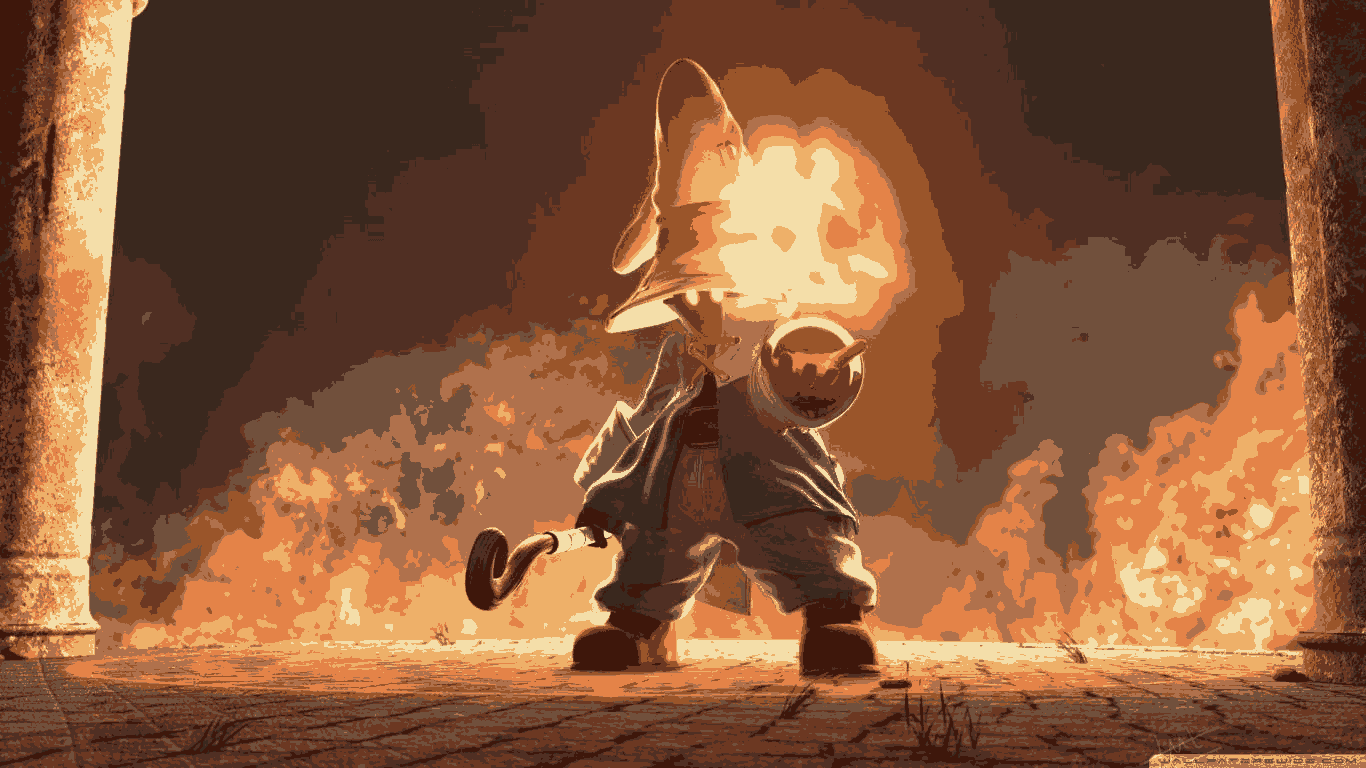
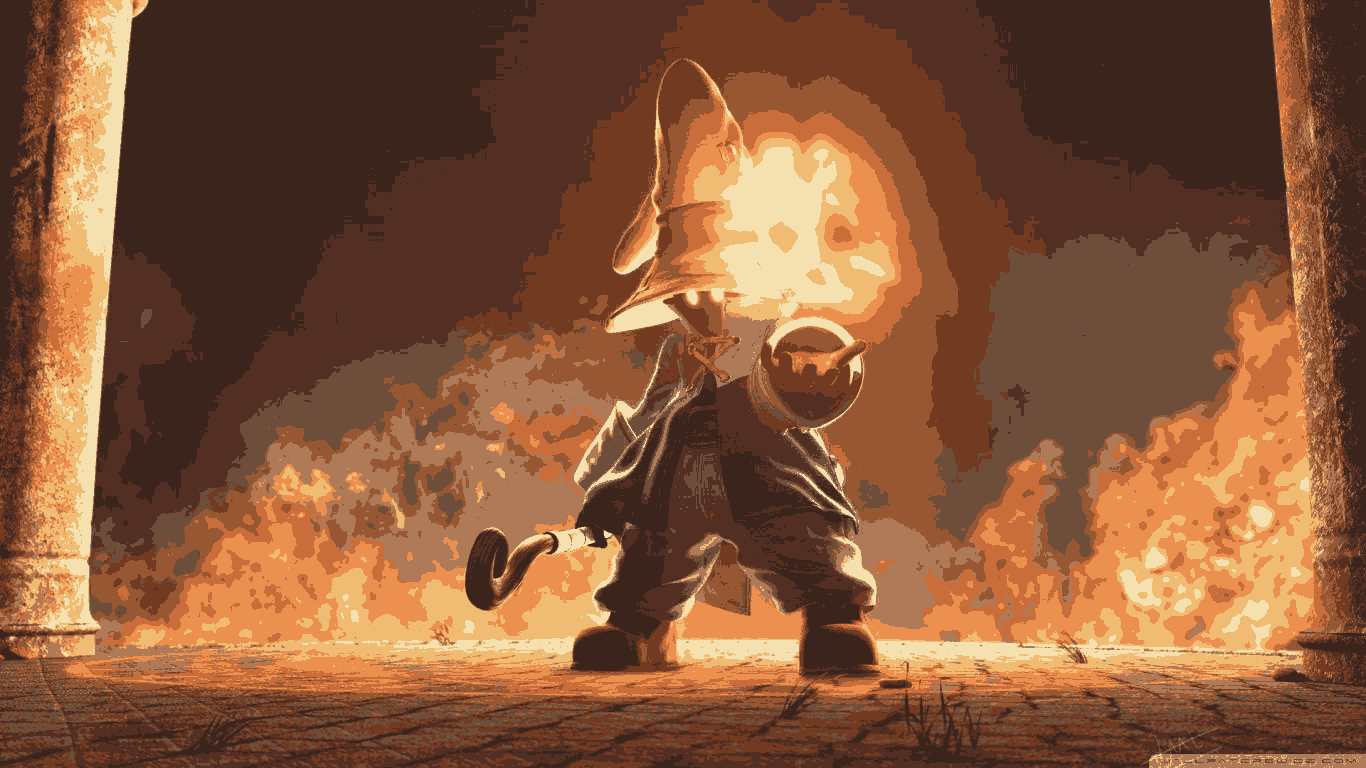
finished k-means for a good first pass learned more about the k-means algorithm and how to cheat it with a hashmap than learning more code i guess. i did learn about the zip function and into_iter which are how to zip(python) and consume a hashmap to vec or any other iterable datastructure respectiv

diff --git a/src/kmeans.rs b/src/kmeans.rs
@@ -1,3 +1,4 @@
+use std::collections::HashMap;
 use std::vec;
 
 use crate::Rgb;
@@ -10,7 +11,8 @@ const DELTA_DIFF: f32 = 1.0;
 pub fn preprocess(pixels: &mut [Rgb]) {
     // so this mutates in place as far as i understand
     // just like odin here
-    for pixel in pixels { // & !0b11 is same as bitchop code
+    for pixel in pixels {
+        // & !0b11 is same as bitchop code
         pixel.r = pixel.r >> BITS_CHOP << BITS_CHOP;
         pixel.g = pixel.g >> BITS_CHOP << BITS_CHOP;
         pixel.b = pixel.b >> BITS_CHOP << BITS_CHOP;
@@ -18,77 +20,97 @@ pub fn preprocess(pixels: &mut [Rgb]) {
 }
 
 fn get_distance(a: &Rgb, b: &Rgb) -> f32 {
-    let (r, g, b) = ( // learn tuple destructure with structs
-            a.r as i32 - b.r as i32,
-            a.g as i32 - b.g as i32,
-            a.b as i32 - b.b as i32,
-        );
+    let (r, g, b) = (
+        // learn tuple destructure with structs
+        a.r as i32 - b.r as i32,
+        a.g as i32 - b.g as i32,
+        a.b as i32 - b.b as i32,
+    );
     ((r * r + g * g + b * b) as f32).sqrt()
 }
 
-fn step_kmeans(pixels: &[Rgb], centroids: &mut [Rgb], assignments: &mut [usize]) -> f32{
-    for (pixel_idx, pixel) in pixels.iter().enumerate() {
-        let mut min_dist_centroid_idx: usize = 0;
-        let mut min_distance: f32 = f32::MAX;
-        let mut centroid_idx: usize = 0;
-        for centroid in &mut *centroids {
-            let distance = get_distance(pixel, centroid);
+fn count_colors(pixels: &[Rgb]) -> Vec<(Rgb, u32)> {
+    let mut c: HashMap<Rgb, u32> = HashMap::new();
+
+    for pixel in pixels {
+        *c.entry(*pixel).or_insert(0) += 1;
+    }
+
+    let mut c = c.into_iter().collect::<Vec<(Rgb, u32)>>();
+    c.sort_by_key(|entry| (entry.0.r, entry.0.g, entry.0.b));
+    c
+}
+
+fn step_kmeans(
+    pixel_counts: &[(Rgb, u32)],
+    centroids: &mut [Rgb],
+    assignments: &mut [usize],
+) -> f32 {
+    for (pixel_idx, &(color, _)) in pixel_counts.iter().enumerate() {
+        let mut min_dist_centroid_idx = 0;
+        let mut min_distance = f32::MAX;
+        for (centroid_idx, centroid) in (*centroids).iter().enumerate() {
+            let distance = get_distance(&color, centroid);
             if distance < min_distance {
-                min_dist_centroid_idx = centroid_idx; 
+                min_dist_centroid_idx = centroid_idx;
                 min_distance = distance;
             }
-            centroid_idx += 1;
         }
         assignments[pixel_idx] = min_dist_centroid_idx;
     }
-    let mut total_distance: f32 = 0.0;
-    let mut sums: Vec<[i32; 3]> = vec![[0; 3]; centroids.len()];
+
+    let mut centroid_sums: Vec<[i32; 3]> = vec![[0; 3]; centroids.len()]; // @todo add typing to this
     let mut counts: Vec<i32> = vec![0; centroids.len()];
-
     for (pixel_idx, centroid_idx) in assignments.iter().enumerate() {
-        let pixel = pixels[pixel_idx];
-
-        sums[*centroid_idx][0] += pixel.r as i32;
-        sums[*centroid_idx][1] += pixel.g as i32;
-        sums[*centroid_idx][2] += pixel.b as i32;
-        counts[*centroid_idx] += 1;
+        let (pixel, pixel_count) = pixel_counts[pixel_idx];
+        // so here these are pixel counts and we want to give weight to represent
+        centroid_sums[*centroid_idx][0] += pixel.r as i32 * pixel_count as i32;
+        centroid_sums[*centroid_idx][1] += pixel.g as i32 * pixel_count as i32;
+        centroid_sums[*centroid_idx][2] += pixel.b as i32 * pixel_count as i32;
+        counts[*centroid_idx] += pixel_count as i32;
     }
 
+    let mut total_distance: f32 = 0.0;
     for (idx, centroid) in (*centroids).iter_mut().enumerate() {
         if counts[idx] == 0 {
             continue;
         }
-        let r = (sums[idx][0] / counts[idx] ) as u8;
-        let g = (sums[idx][1] / counts[idx]) as u8;
-        let b = (sums[idx][2] / counts[idx]) as u8;
+        let num_pixels = counts[idx];
+        let r = (centroid_sums[idx][0] / num_pixels) as u8;
+        let g = (centroid_sums[idx][1] / num_pixels) as u8;
+        let b = (centroid_sums[idx][2] / num_pixels) as u8;
 
-        let new_centroid = Rgb{r, g, b};
+        let new_centroid = Rgb { r, g, b };
         total_distance += get_distance(centroid, &new_centroid);
         *centroid = new_centroid;
     }
-    
-    
+
     total_distance
 }
 
-pub fn run_kmeans(pixels: &mut [Rgb], k: i32) {
-    let rng = &mut rand::rng();
-    let samples = index::sample(rng, pixels.len(), k as usize);
+pub fn run_kmeans(pixels: &mut [Rgb], k: usize) {
+    let pixel_counts = count_colors(pixels);
+    let rng = &mut rand::rng(); // change rng to be seeded if needed
+    let samples = index::sample(rng, pixel_counts.len(), k.min(pixel_counts.len()));
 
-    let mut centroids: Vec<Rgb> = vec![];
+    let mut centroids: Vec<Rgb> = vec![]; // can prob turn this into a map
     for idx in samples {
-        centroids.push(pixels[idx].clone());
+        centroids.push(pixel_counts[idx].0);
     }
 
-    let mut assignments = vec![0; pixels.len()];
+    let mut assignments = vec![0; pixel_counts.len()];
 
-    let mut diff = step_kmeans(pixels, &mut centroids, &mut assignments);
+    let mut diff = step_kmeans(&pixel_counts, &mut centroids, &mut assignments);
     while diff > DELTA_DIFF {
-        diff = step_kmeans(pixels, &mut centroids, &mut assignments);
+        diff = step_kmeans(&pixel_counts, &mut centroids, &mut assignments);
     }
 
-    for (idx, pixel) in (*pixels).iter_mut().enumerate() {
-        *pixel = centroids[assignments[idx]];
+    let mut lookup: HashMap<Rgb, usize> = HashMap::new();
+    for (&(color, _), &assignment) in pixel_counts.iter().zip(assignments.iter()) {
+        lookup.insert(color, assignment);
+    }
+    for pixel in (*pixels).iter_mut() {
+        *pixel = centroids[*lookup.get(pixel).unwrap()];
     }
 
     println!("finished assigning!");

diff --git a/src/main.rs b/src/main.rs
@@ -4,16 +4,21 @@ use image::{ImageBuffer, ImageReader};
 
 use crate::kmeans::{preprocess, run_kmeans};
 
-#[derive(Clone, Copy, Debug, PartialEq)]
+#[derive(Clone, Copy, Debug, PartialEq, Hash, Eq)]
 pub struct Rgb {
     r: u8,
     g: u8,
-    b: u8
+    b: u8,
 }
 
 fn main() {
-    let image_path = std::env::args().nth(1).expect("usage: paint-by-numbers <image>");
-    let raw_img = ImageReader::open(image_path).expect("error reading image").decode().expect("error decoding image");
+    let image_path = std::env::args()
+        .nth(1)
+        .expect("usage: paint-by-numbers <image>");
+    let raw_img = ImageReader::open(image_path)
+        .expect("error reading image")
+        .decode()
+        .expect("error decoding image");
     let width = raw_img.width() as usize;
     let height = raw_img.height() as usize;
     println!("image read dimensions: {width}x{height}");
@@ -21,11 +26,10 @@ fn main() {
     let raw_img = raw_img.into_rgb8(); //consume as we dont need it anymore
 
     let mut pixels: Vec<Rgb> = Vec::with_capacity(width * height);
-    for rgb in raw_img.pixels() { // @TODO can prob make this a map function
+    for rgb in raw_img.pixels() {
+        // @TODO can prob make this a map function
         let [r, g, b] = rgb.0;
-        let v = Rgb{
-            r, g, b
-        };
+        let v = Rgb { r, g, b };
         pixels.push(v);
     }
 
@@ -33,7 +37,7 @@ fn main() {
 
     preprocess(&mut pixels);
     run_kmeans(&mut pixels, k);
-    
+
     let output = ImageBuffer::from_fn(width as u32, height as u32, |x, y| {
         let idx = y as usize * width + x as usize;
         image::Rgb([pixels[idx].r, pixels[idx].g, pixels[idx].b])

diff --git a/LESSON_PLAN.md b/LESSON_PLAN.md
@@ -55,6 +55,8 @@ Read this whole file at the start of every session. It is the source of truth fo
 - Background: Go, Python, Odin. Learning Rust to work without AI.
 - Prefers working code first and idiomatic refactors later.
 - Wants to stay close to the TS reference and their own Odin port.
+- Finds Rust cumbersome and tends to polish small errors before the program works. Remind gently: lazy first, refactor after it runs.
+- Learns well from reading panics and re-reading against the Odin code. Prefers leading questions to being handed the fix, but a precise pointer (line + "compare with line N") works.
 
 ## Independence habits
 
@@ -94,7 +96,7 @@ Notes on `archive/fill.odin` to keep in mind when porting:
   - Done when `cargo run -- images/testinput.png` writes `out.png`.
   - Concepts: cargo/crates, `Result` and `?`, `Vec`, `as` casts, Drop vs `defer`.
   - Reading: Book ch. 1–3, 9.
-- [ ] **M1: k-means.** `Rgb` struct, bit chop, distance, step/run, seeded RNG (port `src/random.ts`).
+- [ ] **M1: k-means.** (🟡 ~70%, 2026-11-16: `Rgb`, bit chop, distance, step, run all written in `src/kmeans.rs` and `out.png` is produced. Remaining: seeded RNG, unique colors weighted by count.) `Rgb` struct, bit chop, distance, step/run, seeded RNG (port `src/random.ts`).
   - Done when the quantized PNG matches the Odin output. Then switch to unique colors weighted by count, as TS does.
   - Concepts: `&[T]` vs `&mut [T]`, ownership, `#[derive(Clone, Copy, PartialEq, Eq, Hash, Debug)]`, `mod` files, `HashMap`, `--release`.
   - Reading: Book ch. 4, 5, 7, 8.
@@ -157,12 +159,46 @@ Deferred (later, not now):
 - The `@TODO` map: `.pixels().map(...).collect()` (Book ch. 13).
 - `Grid<T>` with `width: usize` and casts only at the edges (M2/M3).
 - Real error handling instead of `expect` (M9).
+- Still open from M0 (checked 2026-11-16): `output/` not in `.gitignore`; `main.rs:24` pixel loop still a `for` + `push` (`.map().collect()`).
+- Clippy items in `kmeans.rs`: `.enumerate()` instead of `centroid_idx` counter, drop `.clone()` on `Copy`, unused `use std::vec`.
+- `>> N << N` vs `& !0b11` (cosmetic; kept to mirror TS/Odin).
+- `as` casts: recheck float→int saturation and int→int truncation when k-means centroid math is next touched (`kmeans.rs:61-63` uses `i32 / i32 as u8`, which is fine for 0–255 averages).
 
-### Next up: M1 (k-means)
+### M1 so far (2026-11-16)
 
-Probe topics: `mod` files, `HashMap` for counting unique colors, `&[Rgb]` and `&mut [Rgb]` in one function,
-`f32`/`f64` and casts, seeding your own RNG (port `src/random.ts`), `--release`.
-First build step: `fn preprocess(pixels: &mut [Rgb])` (bit-chop, port of Odin `preprocess_image`).
+`src/kmeans.rs` (94 lines): `preprocess` (bit chop), `get_distance`, `step_kmeans`, `run_kmeans`. Wired from `main.rs` with `k = 10`.
+Runs and writes `output/out.png`. `cargo build` is clean. Clippy: 2 warnings (manual loop counter `centroid_idx` at line 33, `.clone()` on `Copy` `Rgb` at line 80), plus an unused `use std::vec`.
+
+Learned / fixed with coaching:
+- **`vec![0, n]` vs `vec![0; n]`:** list literal vs repeat. Caused the index-out-of-bounds panic (len 2) in `assignments`.
+- **Forgotten update:** `min_distance` was never assigned, so every pixel picked the last centroid. Found by re-reading against Odin.
+- **Stop condition:** `DELTA_DIFF = 0.0` never settles with truncated integer centroids; `1.0` fixed the apparent infinite loop.
+- **`cargo run --release -- <args>`** vs `cargo build --release` then `./target/release/paint-by-numbers <args>`.
+- Module basics: `mod kmeans;` once in `main.rs`, `pub fn`, `use crate::Rgb;` (private fields are visible to child modules).
+- Iterators: `for pixel in pixels` over `&mut [T]`, `.iter().enumerate()`, `iter_mut()`.
+
+Learner reflection (their own words, worth keeping): write the program the laziest way first, then go back and iron out
+the kinks. A working program is useful; don't polish before it runs.
+
+Still open in M1:
+- **Seeded RNG (decided 2026-11-16: no `random.ts` port, the `rand` crate is fine):** currently `rand::rng()` (non-deterministic). Only change: seed it so runs are repeatable (`SeedableRng::seed_from_u64`, verified in `rand_core-0.10.1/src/seedable_rng.rs:109`; `StdRng` in `rand::rngs`).
+- **Unique colors weighted by count** (`HashMap<Rgb, u32>`). Needs `Hash` + `Eq` derives on `Rgb`. Replaces the per-pixel loop and is much faster.
+- **Quality check:** compare `out.png` to the Odin output once seeded.
+
+Design note for M2: `run_kmeans` currently overwrites `pixels` with centroid colors and throws away `centroids` and `assignments`.
+That is the same flaw as the Odin port (palette indices lost). M2 fixes it by returning them.
+
+TS reference verified 2026-11-16 (`~/workspace/paintbynumbersgenerator`, now cloned):
+- Weighted unique colors: `src/colorreductionmanagement.ts:95-115` (weight = pixels of color / total pixels), weighted mean in `src/lib/clustering.ts:21-46`. Integer counts give the same result (the total cancels).
+- `kMeansMinDeltaDifference = 1` (`src/settings.ts:11`), matching the Rust `DELTA_DIFF = 1.0`.
+- Seed: `randomSeed === 0 ? time : seed`. Initial centroids are random picks from the unique-color list (can repeat; Rust's `index::sample` avoids repeats).
+- TS keeps centroids as floats; Rust truncates to `u8` each step. Possible small palette difference, fine for now.
+
+### Next up
+
+1. Finish M1: weighted unique colors first (speed win, teaches `HashMap`), then the seeded RNG.
+2. Then M2: return `(centroids, assignments)` from `run_kmeans` and build `Grid<u8>`.
+Probe still to run: `HashMap` entry API, seeded RNG (`SeedableRng`, or a hand-rolled LCG as in `random.ts`), integer vs float casts recheck.
 
 ## Rust shifts from Go/Python/Odin
 
@@ -181,4 +217,6 @@ First build step: `fn preprocess(pixels: &mut [Rgb])` (bit-chop, port of Odin `p
 | 2026-11-10 | M0 probe | Moves (Q1), Drop at scope end (Q2), `?` (Q3), debug overflow panic (Q4), borrow conflict on push (Q5), Copy rules (Q6), release-mode wrapping (Q8) | Vec memory layout and move cost (Q9), `&mut Vec` → `&mut [T]` coercion (Q10), Vec vs slice capabilities (Q11), prefers Vec in/out over `&mut [T]` (Q7) |
 | 2026-11-10 | Lesson 1: Vec memory | Taught Vec = (ptr, len, cap) header + heap buffer, slices as views, deref coercion. Both checks correct (signature choice, clone vs move cost) | (closed) |
 | 2026-11-12 | M1 probe | `HashMap` key needs `Hash`+`Eq` (Q1), `mod x;` once in main + `pub` (Q2), `&mut [T]` can't change length (Q3), no implicit int conversion (check) | `as` casts: float→int saturates (guessed panic/wrap), int→int truncates bits (guessed clamp). Taught twice, follow-ups both missed (`-1 as u8` int vs float, `.round()` before cast), so learner to run it in a scratch file; recheck when casts first appear in k-means. Still unprobed: seeded RNG, `--release` |
+| 2026-11-16 | M1 build | Wrote `preprocess`, `get_distance`, `step_kmeans`, `run_kmeans` mostly independently; diagnosed the `vec![0; n]` panic from a pointer; used `&[T]`/`&mut [T]` correctly | `vec![a, b]` vs `vec![a; n]`, forgetting to update `min_distance`, stop-threshold reasoning (`0.0` vs `1.0`), `--release` invocation |
+| 2026-11-16 | M1 probe 2 | `entry().or_insert(0)` with `*` deref (Q1), `HashMap` iteration order is arbitrary (Q2) | Didn't connect map order to determinism: seeded RNG still gives different results if the `Vec` built from a `HashMap` isn't sorted. Taught (`sort_by_key` on `(r,g,b)`) |
 | 2026-11-10 | M0 build | Shipped M0 independently after doc-navigation coaching; correctly pushed back on premature `usize` advice, then chose `usize` with boundary casts | Finding methods in docs (trait vs inherent, struct-level examples): improving. Tuple struct field syntax: taught |
